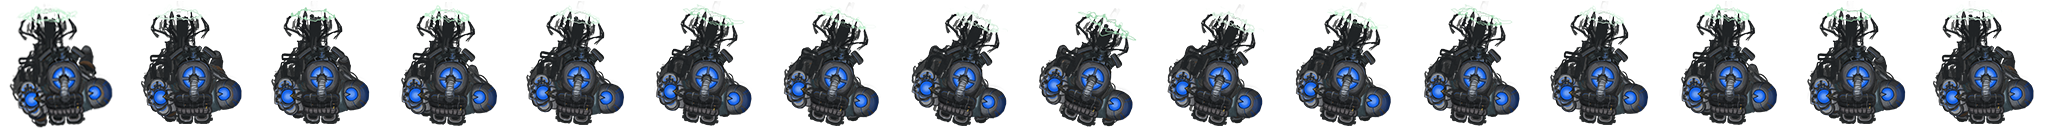
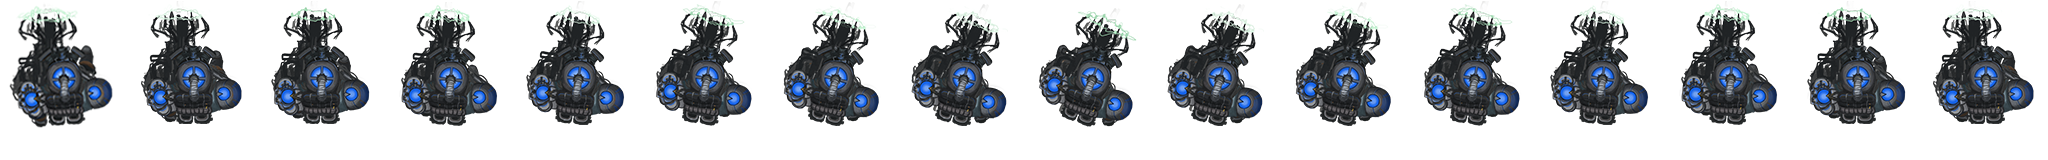
nicer rotation of player

diff --git a/gdx-minigames/src/main/java/de/hochschuletrier/gdw/ss15/game/components/factories/PhysixBodyComponentFactory.java b/gdx-minigames/src/main/java/de/hochschuletrier/gdw/ss15/game/components/factories/PhysixBodyComponentFactory.java
@@ -92,25 +92,17 @@ public class PhysixBodyComponentFactory extends ComponentFactory<EntityFactoryPa
 
     private void addPlayer(EntityFactoryParam param, Entity entity, SafeProperties properties) {
         PhysixBodyComponent playerBody = engine.createComponent(PhysixBodyComponent.class);
-        PhysixBodyDef playerDef = new PhysixBodyDef(BodyDef.BodyType.DynamicBody, physixSystem).position(param.x, param.y).fixedRotation(true);
+        PhysixBodyDef playerDef = new PhysixBodyDef(BodyDef.BodyType.DynamicBody, physixSystem)
+                .position(param.x, param.y).fixedRotation(true).linearDamping(1).angularDamping(1);
 
         playerBody.init(playerDef, physixSystem, entity);
 
         float scale = properties.getFloat("scale", 1);
-        PhysixFixtureDef fixtureDef = new PhysixFixtureDef(physixSystem).density(100).friction(0.0f).restitution(0.0f).shapeCircle(40.0f * scale);
-        playerBody.createFixture(fixtureDef);
-
-        fixtureDef = new PhysixFixtureDef(physixSystem).density(100).friction(0.0f).restitution(0.0f).shapeCircle(40.0f * scale, new Vector2(-5, 45).scl(scale));
-        playerBody.createFixture(fixtureDef);
-
-        fixtureDef = new PhysixFixtureDef(physixSystem).density(100).friction(0.0f).restitution(0.0f).shapeCircle(20.0f * scale, new Vector2(50, 55).scl(scale));
-        playerBody.createFixture(fixtureDef);
-
-        fixtureDef = new PhysixFixtureDef(physixSystem).density(100).friction(0.0f).restitution(0.0f).shapeCircle(20.0f * scale, new Vector2(-50, 45).scl(scale));
-        playerBody.createFixture(fixtureDef);
-
-        fixtureDef = new PhysixFixtureDef(physixSystem).density(100).friction(0.0f).restitution(0.0f).shapeCircle(30.0f * scale, new Vector2(0, -50).scl(scale));
-        playerBody.createFixture(fixtureDef);
+        PhysixFixtureDef fixtureDef = new PhysixFixtureDef(physixSystem).density(100).friction(0.0f).restitution(0.0f);
+        playerBody.createFixture(fixtureDef.shapeCircle(26.0f * scale));
+        playerBody.createFixture(fixtureDef.shapeCircle(13.0f * scale, new Vector2(30, 8).scl(scale)));
+        playerBody.createFixture(fixtureDef.shapeCircle(13.0f * scale, new Vector2(-30, 8).scl(scale)));
+        playerBody.createFixture(fixtureDef.shapeCircle(20.0f * scale, new Vector2(0, -40).scl(scale)));
 
         entity.add(playerBody);
     }
